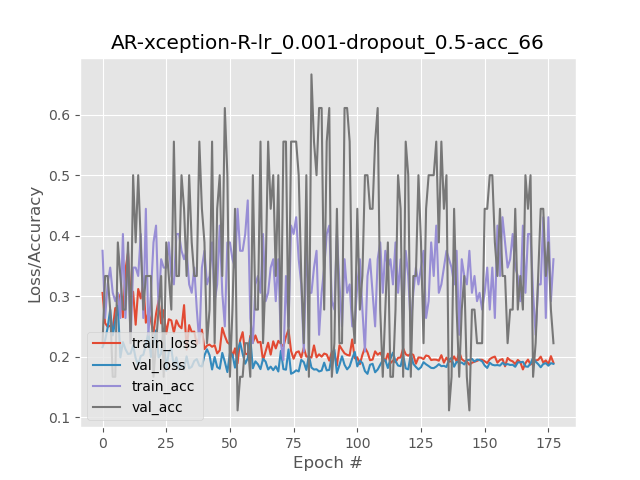
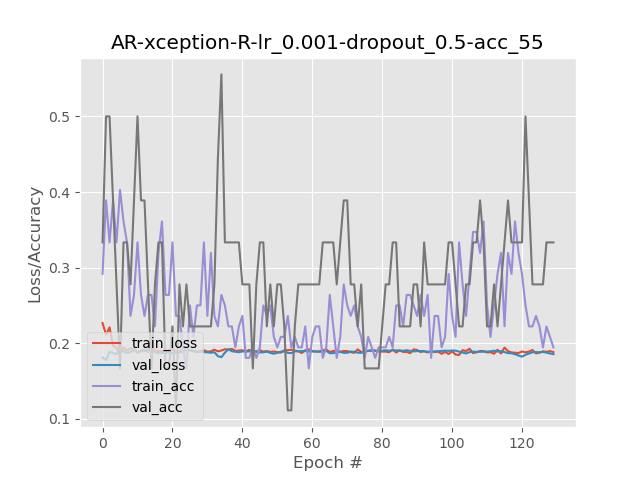
12-12

diff --git a/pyFile[automation].py b/pyFile[automation].py
@@ -27,9 +27,9 @@ def fix_gpu():
 def AR_normal(looper=1):
     model = ARModel(new=False)
     # Data Load
-    (data, labels) = model.loadImages(r'/home/bishal/Research/Allergic-Rhinitis/Dataset/all/rotate', 
-        plotType="R", shuffled=False, classification="multiclass", colorMode="RGB", cleanImageF=False, 
-        resize=True, correctColor=False, contours=False, crop=False ,printImgDemo=False)
+    (data, labels) = model.loadImages(r'/home/bishal/Research/Allergic-Rhinitis/Dataset/all/non_rotate', 
+        plotType="NR", shuffled=False, classification="multiclass", colorMode="RGB", cleanImageF=True, 
+        resize=True, correctColor=False, contours=False, crop=True ,printImgDemo=False)
 
     # Data Preparation
     (data, labels) = model.prepareData(data, labels, weightedLossCalc=True)
@@ -51,9 +51,9 @@ def AR_normal(looper=1):
                     # Read" new shuffled data 
                     print("\n Looper Number -> ", i+1)
                     print("\nLoading Shuffled Data")
-                    (data, labels) = model.loadImages(r'/home/bishal/Research/Allergic-Rhinitis/Dataset/all/rotate', 
-                                plotType="R", shuffled=True, classification="multiclass", colorMode="RGB", cleanImageF=False, 
-                                resize=True, correctColor=False, contours=False, crop=False ,printImgDemo=False)
+                    (data, labels) = model.loadImages(r'/home/bishal/Research/Allergic-Rhinitis/Dataset/all/non_rotate', 
+                                plotType="NR", shuffled=True, classification="multiclass", colorMode="RGB", cleanImageF=True, 
+                                resize=True, correctColor=False, contours=False, crop=True ,printImgDemo=False)
                                 
 
                 # Set Base Model
